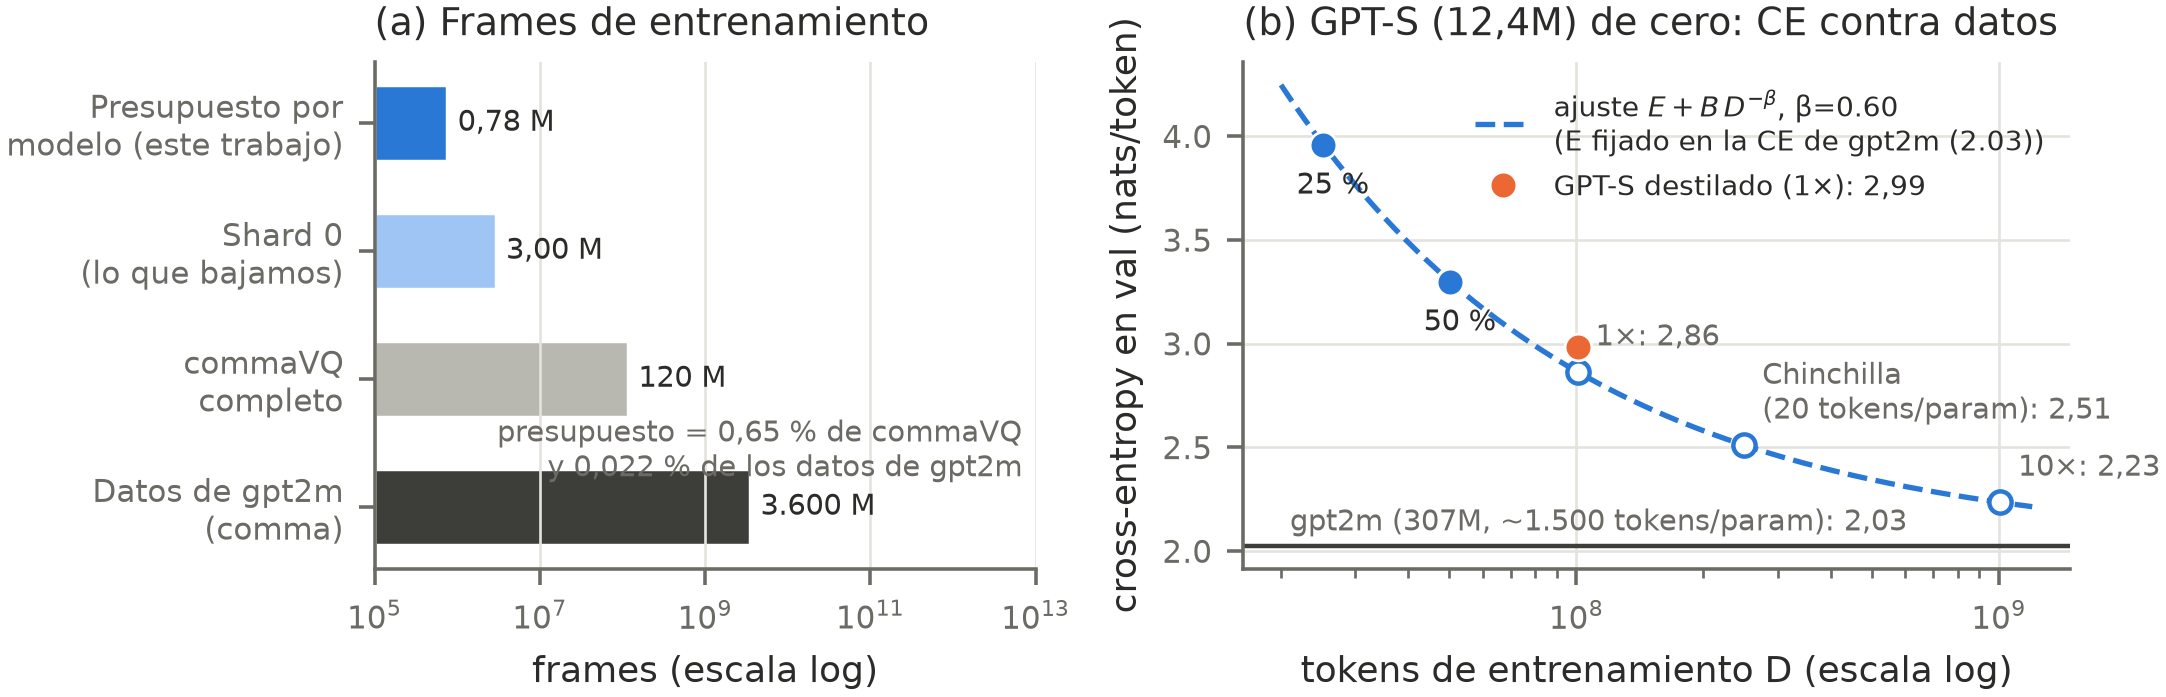
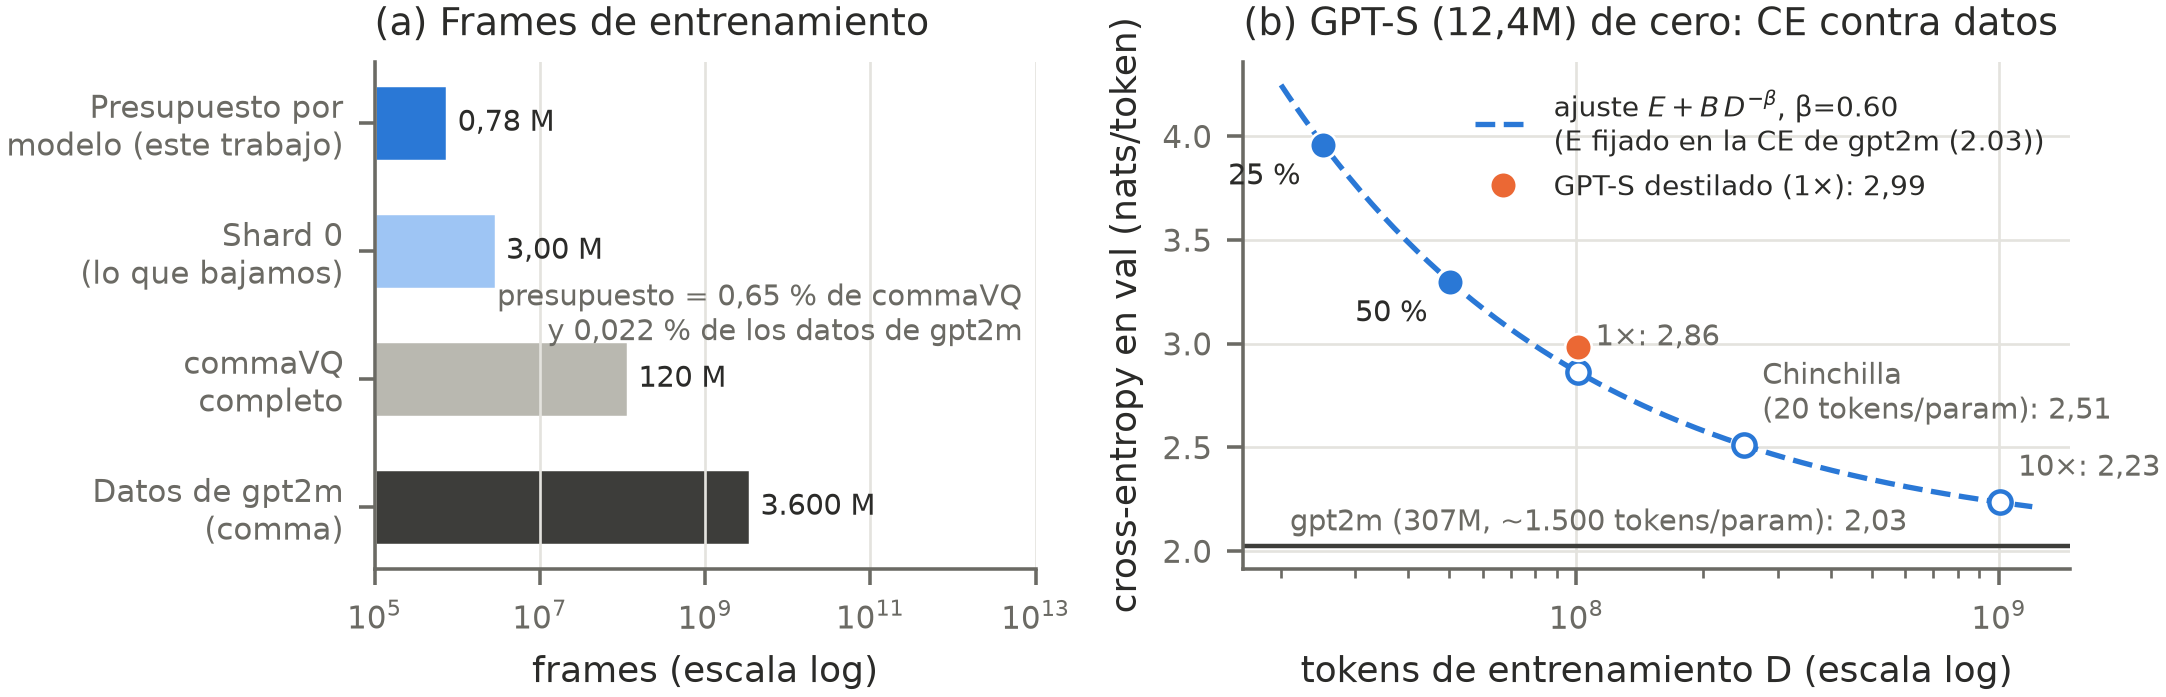
Informe: figura del pipeline, autores, ¿ con XeTeX, tablas dentro del margen, solapes de la figura de escala y nombres legibles en la tabla de la cadena

diff --git a/paper/main.tex b/paper/main.tex
@@ -3,10 +3,17 @@
 % Convención: \pend{...} marca lo que depende de corridas que todavía no terminaron (sale en rojo).
 \documentclass[10pt,twocolumn,a4paper]{article}
 
-\usepackage[utf8]{inputenc}
-\usepackage[T1]{fontenc}
+% Codificación y fuente según el motor: pdfLaTeX (Overleaf) usa inputenc + T1; XeTeX (tectonic) usa fontspec.
+% Con T1 bajo XeTeX, "¿" sale como "£".
+\usepackage{iftex}
+\ifPDFTeX
+  \usepackage[utf8]{inputenc}
+  \usepackage[T1]{fontenc}
+  \usepackage{lmodern}
+\else
+  \usepackage{fontspec}
+\fi
 \usepackage[spanish,es-noshorthands,es-tabla]{babel}
-\usepackage{lmodern}
 \usepackage[margin=2cm,columnsep=0.7cm]{geometry}
 \usepackage{amsmath,amssymb}
 \usepackage{booktabs}
@@ -17,6 +24,8 @@
 \usepackage[numbers,sort&compress]{natbib}
 \usepackage{caption}
 \captionsetup{font=small}
+\usepackage{tikz}
+\usetikzlibrary{arrows.meta,positioning,decorations.pathreplacing,calc}
 
 \sisetup{output-decimal-marker={,},group-separator={.}}
 \newcommand{\pend}[1]{\textcolor{red}{[#1]}}
@@ -32,7 +41,7 @@
 
 \title{¿Cuánto se puede achicar un world model de manejo?\\
 \large Calidad contra latencia de modelos autoregresivos, de decodificación paralela y de píxeles sobre commaVQ}
-\author{\pend{Autores} \\ Maestría en Inteligencia Artificial, Universidad de San Andrés}
+\author{\editado{Bautista Peco, Tomás Morales y Kevin Soulier} \\ Maestría en Inteligencia Artificial, Universidad de San Andrés}
 \date{}
 
 \begin{document}
@@ -48,6 +57,42 @@ Un world model de manejo sirve como simulador si genera video creíble y lo hace
 Un \emph{world model} aprende a predecir cómo evoluciona el entorno~\cite{ha2018worldmodels}. En conducción autónoma, un world model de video puede funcionar como simulador: genera lo que vería la cámara del auto y permite evaluar o entrenar una política sin salir a la calle. comma.ai entrena hoy su política de manejo dentro de un world model de este tipo~\cite{goff2025learning}, y modelos como GAIA-1~\cite{hu2023gaia1} muestran que la generación de video de manejo realista es posible a gran escala.
 
 Para usarse en lazo cerrado, un simulador tiene que ser rápido además de creíble. La cámara de comma graba a 20~FPS, así que cada frame tiene que generarse en menos de 50\ms. Los world models basados en tokens, como IRIS~\cite{micheli2023iris} y el GPT de commaVQ~\cite{commavq}, generan cada frame como una secuencia de tokens discretos, uno por vez: en commaVQ son 128 tokens por frame, es decir, 128 pasadas secuenciales por la red. La calidad sube con el tamaño del modelo, pero cada pasada también se encarece.
+
+\editado{La Figura~\ref{fig:pipeline} muestra el sistema completo. Del pipeline de commaVQ reutilizamos fijos el encoder y el decoder del VQ-VAE, y el GPT de comma, que usamos como referencia y como maestro. Lo único que entrenamos y comparamos es el modelo que predice los tokens del frame siguiente. De ese modelo medimos la calidad del video que genera y la latencia, solo y dentro de la cadena completa.}
+
+\begin{figure*}[t]
+\centering
+\begin{tikzpicture}[
+  font=\footnotesize, >={Stealth[length=1.8mm]}, node distance=5mm,
+  caja/.style={draw, rounded corners=1pt, align=center, minimum height=12mm, text width=17mm, inner sep=2pt},
+  fija/.style={caja, fill=black!12},
+  nuestra/.style={caja, very thick, text width=31mm},
+  nota/.style={font=\scriptsize, text=black!70, align=center},
+  fila/.style={font=\footnotesize\bfseries, anchor=south west}]
+% inferencia, en lazo
+\node[caja] (cam) {Cámara\\frame RGB\\$128\times256$};
+\node[fija, right=of cam, text width=14mm] (enc) {Encoder\\VQ-VAE};
+\node[caja, right=of enc, text width=20mm] (ctx) {Contexto\\1~s de video\\en tokens};
+\node[nuestra, right=of ctx] (din) {\textbf{Modelo de dinámica}\\predice 128 tokens\\[2pt] GPT: 128 pasadas\\Genie y MaskGIT:\\$S$ pasadas};
+\node[fija, right=of din, text width=14mm] (dec) {Decoder\\VQ-VAE};
+\node[caja, right=of dec] (gen) {Frame\\generado};
+\foreach \a/\b in {cam/enc, enc/ctx, ctx/din, din/dec, dec/gen} \draw[->] (\a) -- (\b);
+\draw[->] (din.south) -- ++(0,-3mm) -| node[nota, pos=0.25, below] {el frame predicho se agrega al contexto} (ctx.south);
+% entrenamiento
+\node[fija, above=10mm of enc, text width=20mm] (datos) {commaVQ\\video ya en tokens};
+\node[fija, above=10mm of gen, text width=20mm] (ref) {\texttt{gpt2m} (307M)\\referencia y maestro};
+\draw[->] (datos.east) -| node[nota, pos=0.3, above] {780.000 frames por modelo} ($(din.north)+(-7mm,0)$);
+\draw[->, dashed] (ref.west) -| node[nota, pos=0.35, above] {destilación} ($(din.north)+(7mm,0)$);
+\node[fila] at ($(cam.west |- datos.north)+(0,1mm)$) {Entrenamiento};
+\node[fila] at ($(cam.north west)+(0,1mm)$) {Inferencia};
+% qué medimos
+\draw[decorate, decoration={brace, mirror, amplitude=4pt}] ($(enc.west |- din.south)+(0,-11mm)$) -- ($(dec.east |- din.south)+(0,-11mm)$)
+  node[nota, midway, below=4pt] {latencia de la cadena completa: menos de 50~ms por frame para 20~FPS};
+\node[nota, below=2mm of gen] {calidad: FVD y LPIPS\\contra el video real};
+\end{tikzpicture}
+\caption{\editado{Pipeline de commaVQ y la parte que estudiamos. Arriba, el entrenamiento: commaVQ trae el video ya codificado en tokens, cada modelo ve 780.000 frames y \texttt{gpt2m} es la referencia y el maestro de la destilación. Abajo, la inferencia en lazo: el encoder codifica el frame de la cámara, el modelo de dinámica predice los 128 tokens del frame siguiente a partir del contexto, y el decoder los vuelve imagen. En gris, lo que reutilizamos fijo; con borde grueso, lo que entrenamos y comparamos. Medimos la calidad del video generado (FVD y LPIPS; la CE se mide sobre los tokens) y la latencia del modelo solo y de la cadena completa. El ConvLSTM predice píxeles directamente, sin encoder ni decoder.}}
+\label{fig:pipeline}
+\end{figure*}
 
 En este trabajo nos preguntamos \textbf{cuánto se puede achicar y acelerar un world model de video de manejo sin perder calidad}. Estudiamos tres ejes:
 \begin{itemize}
@@ -103,6 +148,7 @@ Los intervalos se obtienen por bootstrap por segmento, porque los cuatro clips d
 \begin{table}[t]
 \centering
 \small
+\resizebox{\columnwidth}{!}{%
 \begin{tabular}{@{}lll@{}}
 \toprule
 Modelo & Qué es & Params \\
@@ -119,7 +165,7 @@ Modelo & Qué es & Params \\
 \texttt{transicion} & tabla $p(y\mid x)$ por celda & -- \\
 \texttt{congelado} & repite el último frame & -- \\
 \bottomrule
-\end{tabular}
+\end{tabular}}
 \caption{Modelos evaluados. Los modelos latentes (V-JEPA~2, LeWorldModel) se tratan aparte.}
 \label{tab:modelos}
 \end{table}
@@ -177,7 +223,7 @@ La Tabla~\ref{tab:principal} resume la calidad de todos los modelos. Achicar el 
 \begin{table}[t]
 \centering
 \small
-\input{tablas/semillas}
+\resizebox{\columnwidth}{!}{\input{tablas/semillas}}
 \caption{FVD, media $\pm$ desvío entre las semillas 0, 1 y 2.}
 \label{tab:semillas}
 \end{table}

diff --git a/paper/hacer_figuras.py b/paper/hacer_figuras.py
@@ -244,9 +244,9 @@ def fig_datos_escala():
   a.set_xlim(1e5, 1e13)
   a.set_xlabel("frames (escala log)")
   a.set_title("(a) Frames de entrenamiento", loc="left")
-  a.text(0.98, 0.30, f"presupuesto = {100 * FRAMES_PRESUPUESTO / FRAMES_COMMAVQ:.2f} % de commaVQ\n"
+  a.text(0.98, 0.50, f"presupuesto = {100 * FRAMES_PRESUPUESTO / FRAMES_COMMAVQ:.2f} % de commaVQ\n"
          f"y {100 * FRAMES_PRESUPUESTO / FRAMES_GPT2M:.3f} % de los datos de gpt2m".replace(".", ","),
-         transform=a.transAxes, ha="right", va="top", fontsize=6.5, color=TINTA2)
+         transform=a.transAxes, ha="right", va="center", fontsize=6.5, color=TINTA2)
   a.grid(axis="y", visible=False)
   # (b) escala
   pts = puntos_escala()
@@ -266,7 +266,8 @@ def fig_datos_escala():
   for t, ce, run in pts:
     b.plot([t], [ce], marker="o", color=COLOR["gpt"], ms=6, mec="white", mew=0.6, zorder=4)
     b.annotate(run.replace("gpt_s_d0", "").replace("gpt_s", "100") + " %" if run != "gpt_s" else "100 %",
-               (t, ce), textcoords="offset points", xytext=(-6, -11), fontsize=6.5, color=TINTA)
+               (t, ce), textcoords="offset points", xytext=(-5, -4), ha="right", va="top", fontsize=6.5,
+               color=TINTA)  # abajo a la izquierda del punto: la curva baja hacia la derecha y no lo pisa
   kd = SUM["gpt_s_kd"]["ce_all"]
   b.plot([1.008e8], [kd], marker="o", color=COLOR["maskgit"], ms=6, mec="white", mew=0.6, ls="",
          label=f"GPT-S destilado (1×): {kd:.2f}".replace(".", ","))
@@ -367,6 +368,10 @@ def tabla_semillas():
   print("tabla", OUT_T / "semillas.tex")
 
 
+NOMBRE_CADENA = {"convlstm_px": "ConvLSTM (píxeles)", "genie_m_p4": "Genie-M, 4 pasos", "genie_s_p4": "Genie-S, 4 pasos",
+                 "gpt_s_kd": "GPT-S destilado", "transicion": "Transición por celda"}
+
+
 def tabla_cadena():
   L = [r"\begin{tabular}{lrrrrr}", r"\toprule",
        r"Configuración & encoder & modelo & decoder & p99 a ritmo & tarde \\",
@@ -375,7 +380,8 @@ def tabla_cadena():
     d = leer(f)
     st = d["cadena_cerrada"].get("stages_p50_ms") or {}
     cr = d["cadena_ritmo"]
-    L.append(f"{d['name'].replace('_', chr(92) + '_')} & {num(st.get('encoder'))} & {num(st.get('model'))} & "
+    nombre = NOMBRE_CADENA.get(d["name"], d["name"].replace("_", chr(92) + "_"))
+    L.append(f"{nombre} & {num(st.get('encoder'))} & {num(st.get('model'))} & "
              f"{num(st.get('decoder'))} & {num(cr['p99'])} & {num(cr.get('late_pct'))} \\\\")
   L += [r"\bottomrule", r"\end{tabular}"]
   (OUT_T / "cadena.tex").write_text("\n".join(L) + "\n", encoding="utf-8")

diff --git a/paper/tablas/cadena.tex b/paper/tablas/cadena.tex
@@ -3,10 +3,10 @@
 Configuración & encoder & modelo & decoder & p99 a ritmo & tarde \\
  & \multicolumn{3}{c}{p50 (ms)} & (ms) & (\%) \\
 \midrule
-convlstm\_px & 0{,}1 & 11{,}8 & 0{,}0 & 32{,}2 & 0{,}2 \\
-genie\_m\_p4 & 3{,}8 & 9{,}3 & 6{,}2 & 20{,}6 & 0{,}0 \\
-genie\_s\_p4 & 3{,}8 & 5{,}6 & 6{,}1 & 21{,}7 & 0{,}0 \\
-gpt\_s\_kd & 3{,}9 & 156{,}9 & 6{,}0 & 171{,}4 & 100{,}0 \\
-transicion & 3{,}8 & 0{,}1 & 6{,}1 & 20{,}6 & 0{,}0 \\
+ConvLSTM (píxeles) & 0{,}1 & 11{,}8 & 0{,}0 & 32{,}2 & 0{,}2 \\
+Genie-M, 4 pasos & 3{,}8 & 9{,}3 & 6{,}2 & 20{,}6 & 0{,}0 \\
+Genie-S, 4 pasos & 3{,}8 & 5{,}6 & 6{,}1 & 21{,}7 & 0{,}0 \\
+GPT-S destilado & 3{,}9 & 156{,}9 & 6{,}0 & 171{,}4 & 100{,}0 \\
+Transición por celda & 3{,}8 & 0{,}1 & 6{,}1 & 20{,}6 & 0{,}0 \\
 \bottomrule
 \end{tabular}
